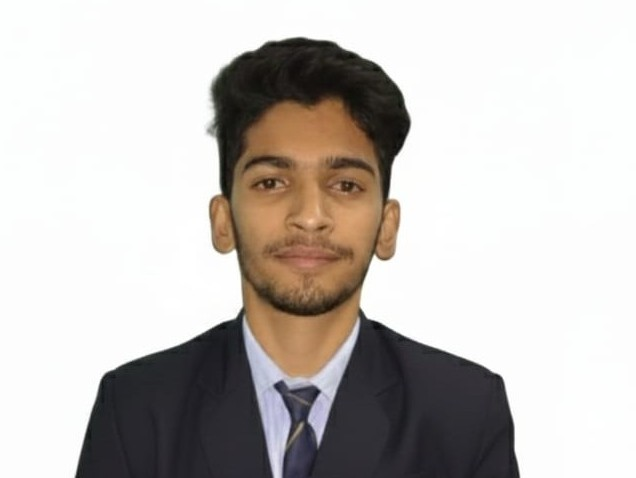
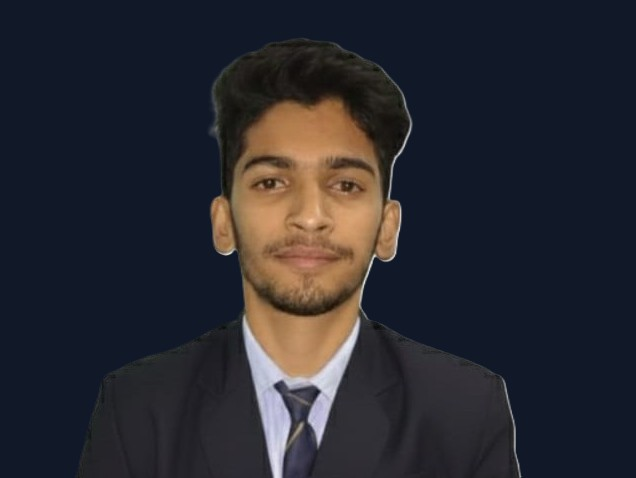
added meta data

diff --git a/src/App.jsx b/src/App.jsx
@@ -258,11 +258,11 @@ const About = () => {
           viewport={{ once: true }}
           transition={{ duration: 0.6 }}
         >
-          <h2 className="text-4xl md:text-5xl font-bold text-center mb-12 bg-gradient-to-r from-purple-400 to-pink-600 bg-clip-text text-transparent">
-            About Me
-          </h2>
+          <h1 className="text-4xl md:text-2xl font-bold text-center mb-12 bg-gradient-to-r from-purple-400 to-pink-600 bg-clip-text text-transparent">
+            ABOUT ME
+          </h1>
 
-          <div className="grid md:grid-cols-2 gap-12 items-center">
+          <div className="grid md:grid-cols-2 gap-8 items-center">
             <motion.div
               initial={{ opacity: 0, x: -50 }}
               whileInView={{ opacity: 1, x: 0 }}
@@ -273,12 +273,10 @@ const About = () => {
                 <img
                   src={profilee}
                   alt="Profile"
-                  className="w-full h-full object-cover mix-blend-overlay"
+                  className="w-full h-full"
                 />
               </div>
-              <motion.div
-                className="absolute -bottom-4 -right-4 w-34 h-34 bg-yellow-500 rounded-full opacity-100"
-              />
+             
    
             </motion.div>
 
